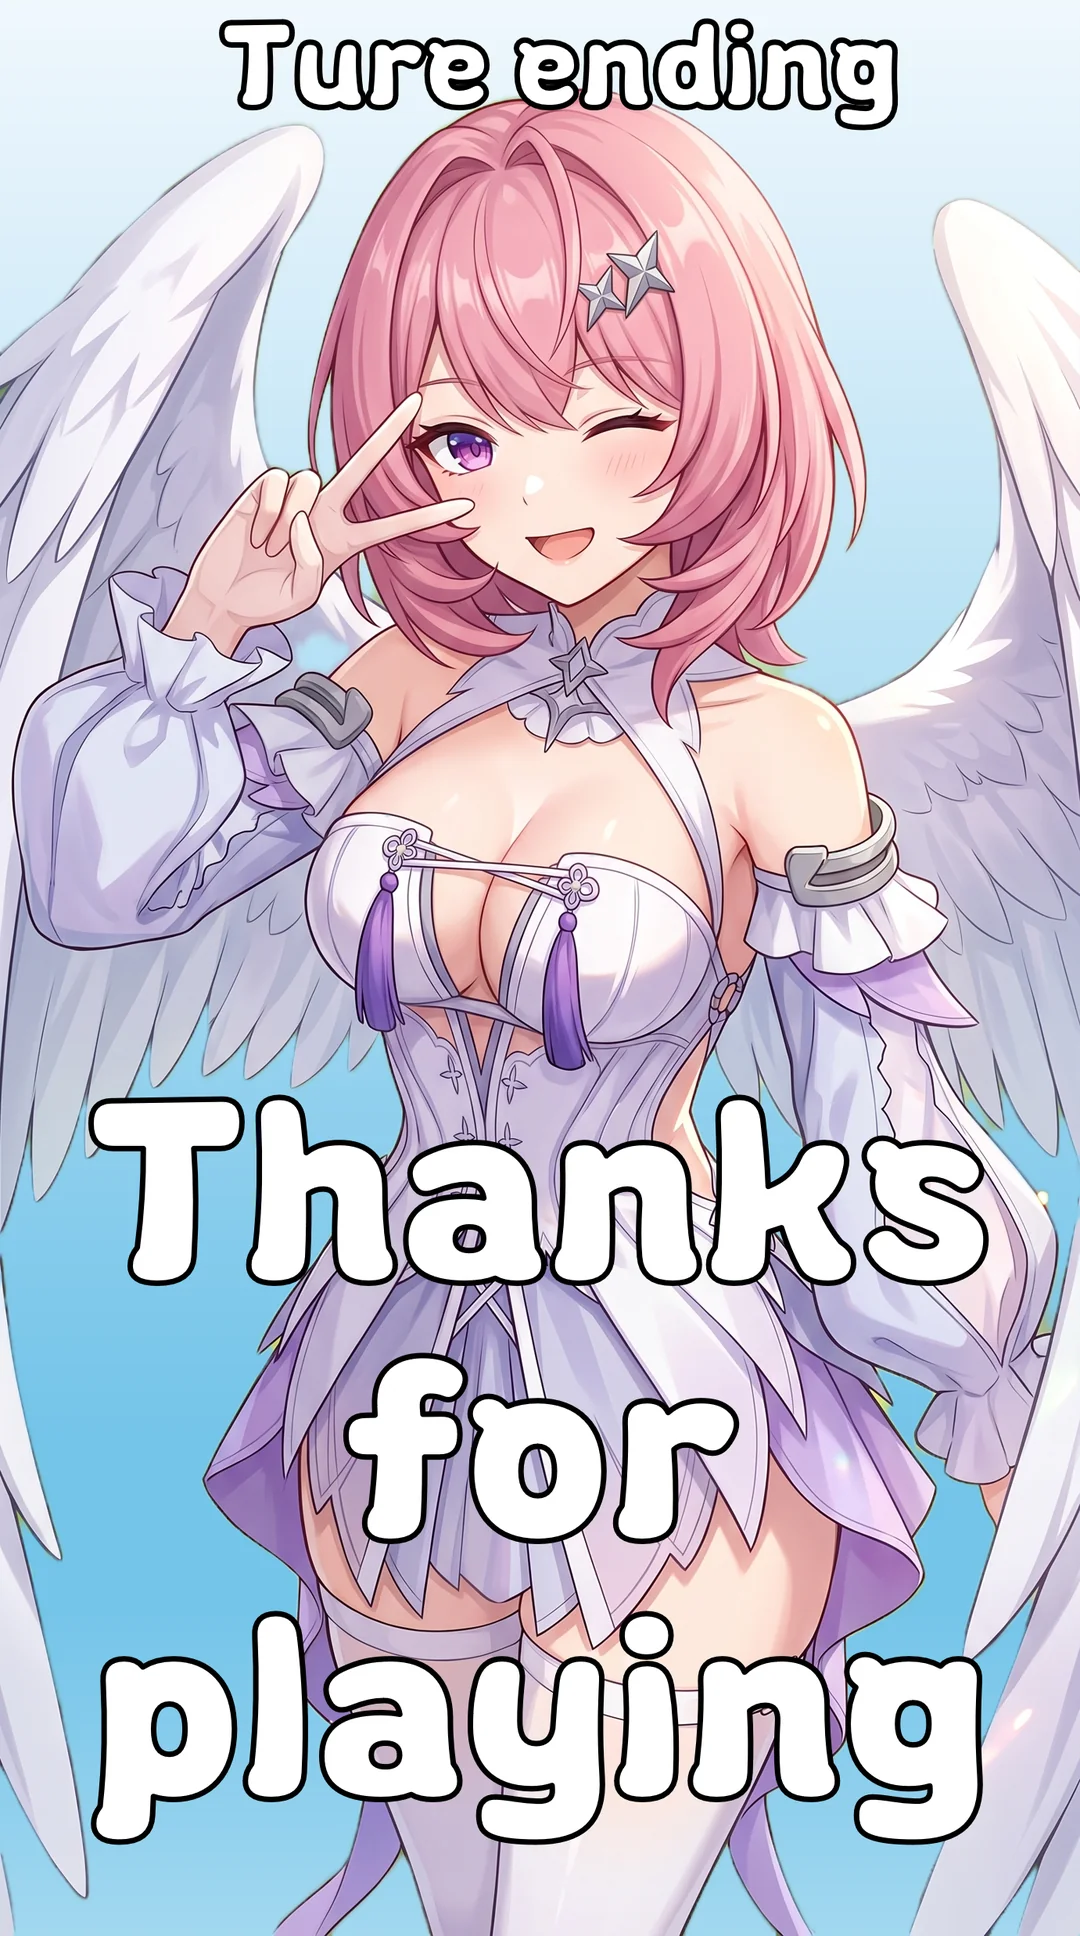
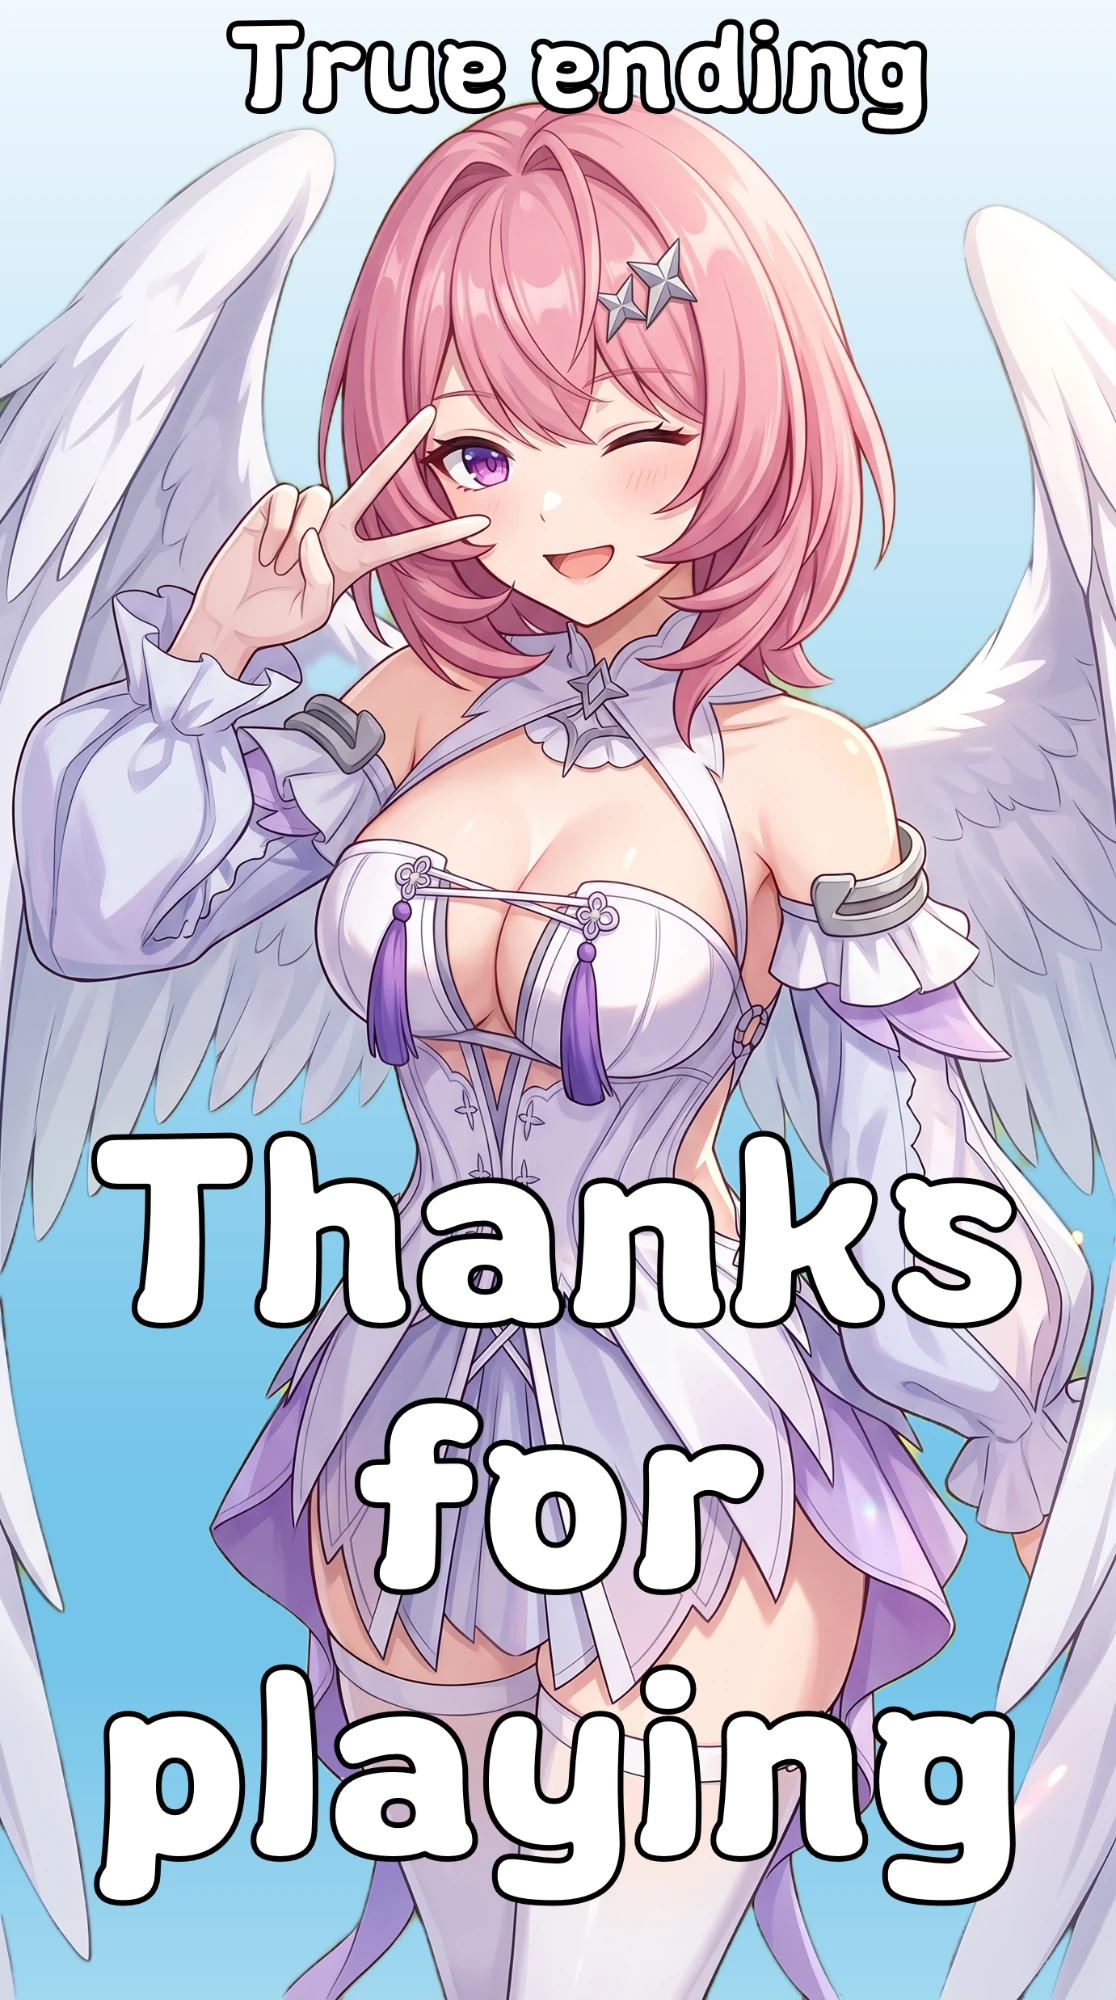
v0.16: 트루 엔딩 이미지 교체 (Ture ending -> True ending 오타 수정)
images/endings/트루 엔딩.webp 를 오타를 고친 새 그림(1116x2000)으로 교체.
파일 이름과 ENDING_FILES 매핑이 그대로라 코드 수정은 버전 표시뿐.

Claude-Session: https://claude.ai/code/session_01KzWyv7AYiRKQ1kXNCgL8Us

diff --git a/index.html b/index.html
@@ -938,7 +938,7 @@ body.tt-on tw-passage { display: none; }
   var CHAR_LOCAL_BASE = 'file:///C:/Users/pumha/Desktop/귤복복 살인사건제작/완성본/실제 제작/캐릭터 이미지/';
   var CHAR_WEB_BASE = 'images/characters/';
   var CHAR_BASE = (location.protocol === 'file:') ? CHAR_LOCAL_BASE : CHAR_WEB_BASE;
-  var BUILD_VERSION = '0.15';             // 화면 오른쪽 위에 작게 보이는 버전. 뭔가 바꿀 때마다 0.01 씩 올릴 것 (사용자 요청)
+  var BUILD_VERSION = '0.16';             // 화면 오른쪽 위에 작게 보이는 버전. 뭔가 바꿀 때마다 0.01 씩 올릴 것 (사용자 요청)
 
   /* ---------- 인물 배치 ----------
      제작자가 직접 만든 배치 예시 29장(벨 + 상대)을 읽어서 정리한 값이야. 단위는 전부 '화면 폭의 %' (폰 화면 폭 = 100).
